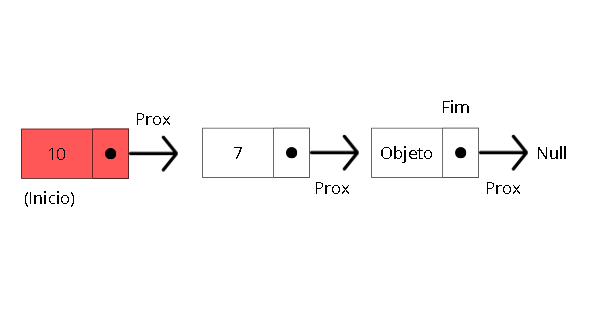
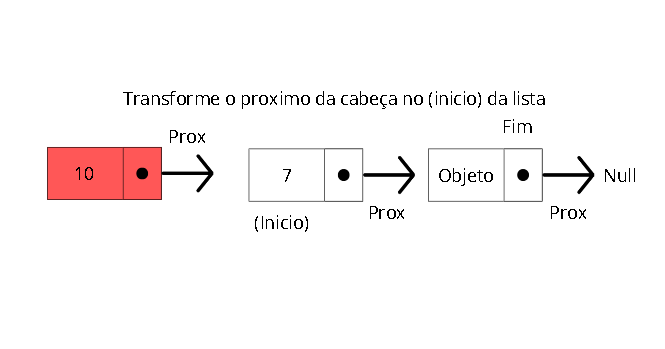
Figuras parte 2

diff --git a/explicacao/ListaDupla/Operacoes.php b/explicacao/ListaDupla/Operacoes.php
@@ -67,6 +67,12 @@ if (!isset($_SESSION['user'])) {
             <span>    }</span>
         </pre>
             </section>
+            <h2 class="subtitle has-text-black-bis has-text-weight-normal is-size-5"> Exemplo em Figuras:</h2>
+            <img class="incercao" src="../../img/DE.png">
+            <h2 class="subtitle has-text-black-bis has-text-weight-normal is-size-5"> Parte 2:</h2>
+            <img class="incercao" src="../../img/DE2.PNG">
+            <h2 class="subtitle has-text-black-bis has-text-weight-normal is-size-5"> Parte 3:</h2>
+            <img class="incercao" src="../../img/DE3.PNG">
 
                 <h2 class="subtitle has-text-black-bis has-text-weight-normal is-size-5"> Inserção no Final:</h2>
                 <p class="has-text-justified">
@@ -92,6 +98,12 @@ if (!isset($_SESSION['user'])) {
             <           span>    }</span>
         </pre>
             </section>
+            <h2 class="subtitle has-text-black-bis has-text-weight-normal is-size-5"> Exemplo em Figuras:</h2>
+            <img class="incercao" src="../../img/DE.png">
+            <h2 class="subtitle has-text-black-bis has-text-weight-normal is-size-5"> Parte 2:</h2>
+            <img class="incercao" src="../../img/DEfim.PNG">
+            <h2 class="subtitle has-text-black-bis has-text-weight-normal is-size-5"> Parte 3:</h2>
+            <img class="incercao" src="../../img/DEfim2.PNG">
 
 
                 <h2 class="subtitle has-text-black-bis has-text-weight-normal is-size-5">Remoção do Início:</h2>
@@ -122,6 +134,12 @@ if (!isset($_SESSION['user'])) {
 
         </pre>
             </section>
+            <h2 class="subtitle has-text-black-bis has-text-weight-normal is-size-5"> Exemplo em Figuras:</h2>
+            <img class="incercao" src="../../img/DEremove.png">
+            <h2 class="subtitle has-text-black-bis has-text-weight-normal is-size-5"> Parte 2:</h2>
+            <img class="incercao" src="../../img/DEremove2.PNG">
+            <h2 class="subtitle has-text-black-bis has-text-weight-normal is-size-5"> Parte 3:</h2>
+            <img class="incercao" src="../../img/DEremove3.PNG">
 
 
                 <h2 class="subtitle has-text-black-bis has-text-weight-normal is-size-5">Remoção no Final:</h2>
@@ -151,6 +169,12 @@ if (!isset($_SESSION['user'])) {
             <span>   { </span>
         </pre>
             </section>
+            <h2 class="subtitle has-text-black-bis has-text-weight-normal is-size-5"> Exemplo em Figuras:</h2>
+            <img class="incercao" src="../../img/DEremovefim.png">
+            <h2 class="subtitle has-text-black-bis has-text-weight-normal is-size-5"> Parte 2:</h2>
+            <img class="incercao" src="../../img/DEremovefim2.PNG">
+            <h2 class="subtitle has-text-black-bis has-text-weight-normal is-size-5"> Parte 3:</h2>
+            <img class="incercao" src="../../img/DEremovefim3.PNG">
 
 
                 <h2 class="subtitle has-text-black-bis has-text-weight-normal is-size-5">Impressão de elementos:</h2>
